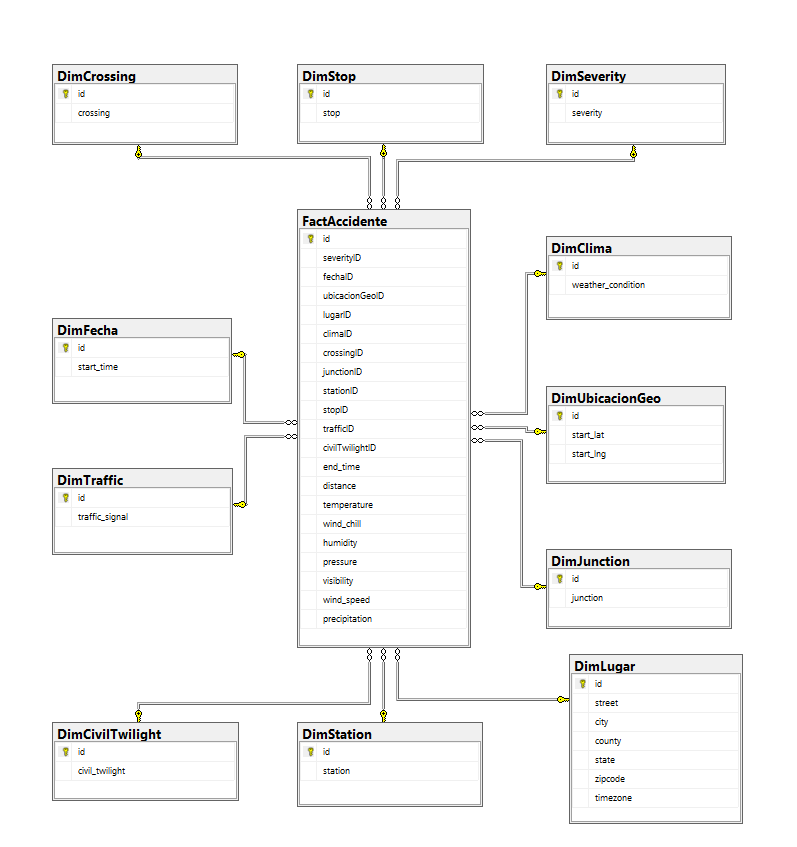
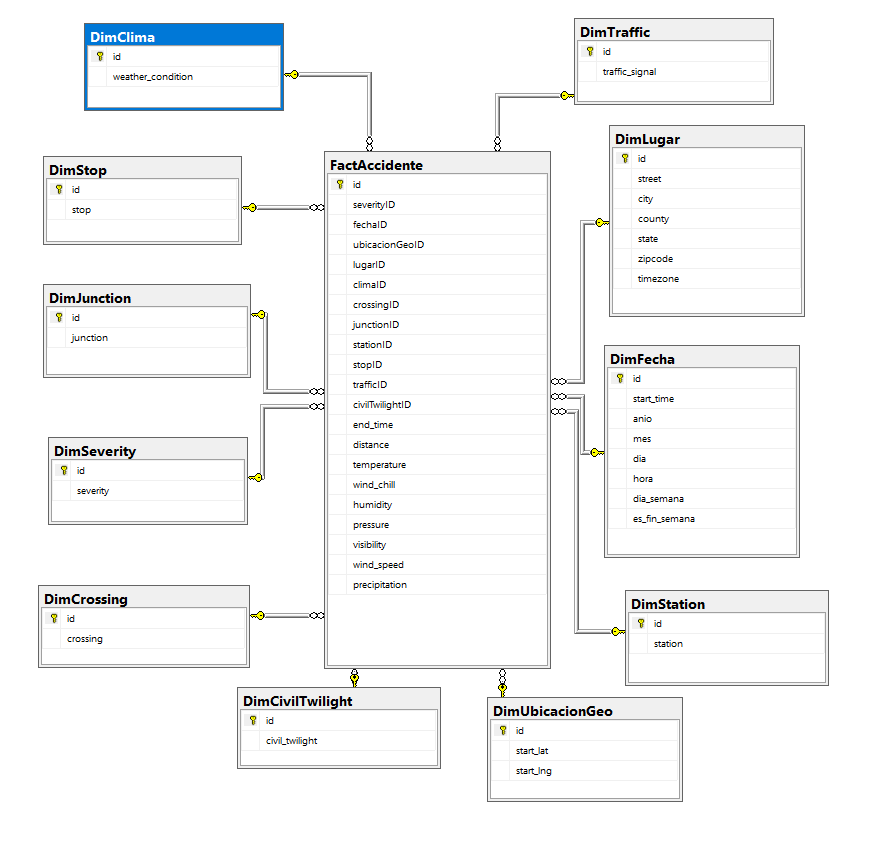
carga datos 2

Changed region(s): [[0.0301, 0.0, 0.9636, 0.9893], [0.0301, 0.6801, 0.1506, 0.8038], [0.0301, 0.1855, 0.1506, 0.2782]]

diff --git a/README.md b/README.md
@@ -1,2 +1,29 @@
 # PROYECTO_BI
 
+Descripción de la fuente de datos y problemática
+
+El presente proyecto utiliza el dataset público US-Accidents, desarrollado por investigadores de The Ohio State University con el objetivo de recopilar y analizar información relacionada con accidentes de tránsito ocurridos en Estados Unidos. El dataset fue presentado originalmente en 2019 y surgió debido a la necesidad de contar con información masiva y enriquecida que permitiera estudiar patrones espaciales, temporales y ambientales asociados a la ocurrencia de accidentes de tránsito (Moosavi et al., 2019).
+
+Los accidentes de tránsito representan una problemática importante debido a su impacto en la seguridad vial, la movilidad urbana y los costos económicos derivados de congestión vehicular, daños materiales y emergencias. Además, la gran cantidad de accidentes registrados diariamente dificulta la identificación de patrones relevantes y factores asociados a su ocurrencia, especialmente cuando intervienen múltiples variables como clima, ubicación geográfica, visibilidad, horario y características de la infraestructura vial.
+
+El dataset US-Accidents fue construido mediante la integración de múltiples fuentes de información en tiempo real. La principal fuente utilizada para la recolección de accidentes fueron las APIs de MapQuest Traffic y Microsoft Bing Traffic, las cuales obtenían eventos reportados por sensores viales, cámaras de tránsito, departamentos de transporte y agencias de seguridad vial (Moosavi et al., 2019). Posteriormente, los registros fueron sometidos a procesos de integración y depuración para eliminar duplicados mediante comparaciones espaciales y temporales. La versión inicial del dataset descrita en el paper contenía aproximadamente 2.25 millones de registros de accidentes ocurridos entre febrero de 2016 y marzo de 2019 (Moosavi et al., 2019). Sin embargo, la versión actualmente disponible en Kaggle corresponde a una actualización posterior del dataset, ampliando la cobertura temporal hasta marzo de 2023 y alcanzando aproximadamente 7.7 millones de registros de accidentes (Moosavi, 2023).
+
+Con el objetivo de enriquecer la información, los autores incorporaron datos meteorológicos obtenidos mediante la API de Weather Underground, incluyendo variables como temperatura, humedad, presión atmosférica, velocidad del viento, precipitación, lluvia, nieve, niebla y visibilidad. Asimismo, utilizaron herramientas geoespaciales como OpenStreetMap (OSM) y Nominatim Reverse Geocoding para complementar la información geográfica de cada accidente, permitiendo identificar calles, ciudades, intersecciones, junctions, señales de tránsito y distintos puntos de interés cercanos a cada incidente (Moosavi et al., 2019).
+
+Adicionalmente, se incorporó información temporal mediante la API de TimeAndDate, permitiendo clasificar los accidentes según periodos del día y condiciones de iluminación, como sunrise/sunset y distintos niveles de twilight (Moosavi et al., 2019). Gracias a este proceso de enriquecimiento, el dataset permite analizar los accidentes desde distintas perspectivas y facilita la identificación de tendencias relacionadas con factores climáticos, temporales y geográficos.
+
+La problemática identificada en este entorno empresarial se centra en la gran cantidad de datos generados diariamente y en la dificultad para convertir dicha información en conocimiento útil para la toma de decisiones estratégicas. Aunque existen millones de registros disponibles, muchas organizaciones presentan limitaciones para:
+•	Analizar patrones de accidentes de manera eficiente. 
+•	Identificar zonas de alto riesgo. 
+•	Generar reportes estratégicos para prevención de accidentes. 
+•	Relacionar variables como clima, horario, ubicación y severidad del accidente. 
+Debido a ello, la información suele encontrarse dispersa y poco estructurada para procesos analíticos avanzados. Esto dificulta la implementación de estrategias preventivas y la optimización de recursos destinados a seguridad vial.
+
+En ese contexto, el presente proyecto propone el desarrollo de una solución de Business Intelligence que permita consolidar y analizar la información mediante modelos dimensionales y dashboards interactivos. Con ello se busca mejorar la capacidad de análisis de accidentes de tránsito y facilitar la toma de decisiones basada en datos.
+
+REFERENCIAS
+
+Moosavi, S., Samavatian, M. H., Parthasarathy, S., & Ramnath, R. (2019). A countrywide traffic accident dataset. arXiv. https://arxiv.org/abs/1906.05409
+
+Moosavi, S., Samavatian, M. H., Parthasarathy, S., & Ramnath, R. (2023). US-Accidents: A countrywide traffic accident dataset (2016–2023) [Dataset]. Kaggle. Kaggle US-Accidents Dataset
+
